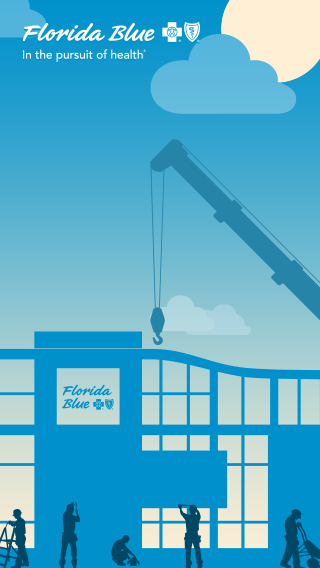
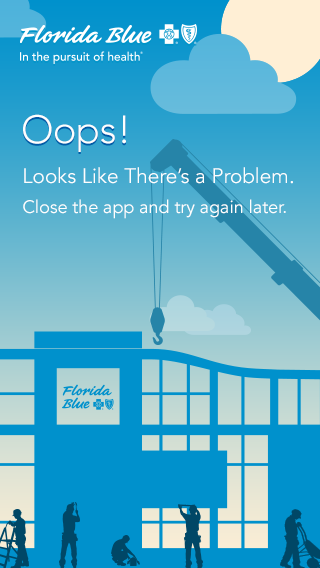
local changes

diff --git a/FloridaBlue/App/Containers/DrawerContent/SettingsContent.js b/FloridaBlue/App/Containers/DrawerContent/SettingsContent.js
@@ -7,6 +7,7 @@ import { ScrollView,
   StyleSheet,
   Text,
   Dimensions,
+  WebView,
   TouchableWithoutFeedback,
   TouchableOpacity
 } from 'react-native'
@@ -26,19 +27,6 @@ const Divider = () => {
   return <View style={styles.divider} />
 }
 
-const Dummy = [{
-  title :"A"
-},
-{
-  title :"B"
-},
-{
-  title :"C"
-}
-
-
-
-]
 class SettingsContent extends Component {
   constructor(){
     super();
@@ -77,7 +65,7 @@ class SettingsContent extends Component {
   }
   handlePressClaims = () => {
     this.toggleDrawer()
-    NavigationActions.claims()
+      NavigationActions.MyView({responseURL: 'https://mws8-stga.bcbsfl.com/wps/myportal/mbs/mwe/myBenefits/claims/'})
   }
 
   handlePressResources = () => {
@@ -99,27 +87,19 @@ class SettingsContent extends Component {
   }
   handlePressFindCare= () => {
     this.toggleDrawer()
-    NavigationActions.MyView()
+    NavigationActions.MyView({responseURL: 'https://mwe-stga.bcbsfl.com/wps/myportal/mbs/mwe/tools/findadoctor'})
   }
   handlePressPayment= () => {
     this.toggleDrawer()
     NavigationActions.MyView()
   }
-  handlePressMyAccount= () => {
+  handlePressSupport= () => {
     this.toggleDrawer()
-    NavigationActions.Support()
-  }
-  handlePressSettings= () => {
-    this.toggleDrawer()
-    NavigationActions.Support()
-  }
-  handlePressFAQ= () => {
-    this.toggleDrawer()
-    NavigationActions.Support()
+    NavigationActions.SupportScreen()
   }
   handlePressPolicy= () => {
     this.toggleDrawer()
-    NavigationActions.Support()
+   NavigationActions.MyView({responseURL: 'https://www.floridablue.com/terms-of-use'})
   }
 
   handlePressLogout = () => {
@@ -205,18 +185,12 @@ class SettingsContent extends Component {
 
         </View>
         <View style={styles.settings}>
-          <View style={styles.myAccountStyle}>
-            <View >
-              <Flb name='user' size={Metrics.icons.xm} color={Colors.flBlue.ocean} />
-            </View>
-            <Text style={styles.heading2} onPress={this.handlePressMyAccount}>My Account</Text>
-          </View>
 
           <View style={styles.myAccountStyle}>
             <View >
               <Flb name='cog-gear' size={Metrics.icons.xm} color={Colors.flBlue.ocean} />
             </View>
-            <Text style={styles.heading2} onPress={this.handlePressSettings}>App Settings</Text>
+            <Text style={styles.heading2} onPress={this.handlePressSupport}>Support</Text>
           </View>
 
           <View style={styles.myAccountStyle}>
@@ -224,9 +198,9 @@ class SettingsContent extends Component {
               <Flb name='generic-doc' size={Metrics.icons.xm  } color={Colors.flBlue.ocean} />
             </View>
 
-            <Text style={styles.heading2} onPress={this.handlePressPolicy}>Policies & Terms </Text>
+            <Text style={styles.heading2} onPress={this.handlePressPolicy}>Terms of Use </Text>
           </View>
-        
+
 
 
         </View>

diff --git a/FloridaBlue/App/Containers/Login/Login.js b/FloridaBlue/App/Containers/Login/Login.js
@@ -88,7 +88,7 @@ componentWillReceiveProps(newProps) {
   console.log('I am receving new props' + newProps.responseURL)
   console.log('I am receving new smToken' + newProps.smToken)
   var responseURL = newProps.responseURL;
-  
+
   if (this.isAttempting && !newProps.fetching && newProps.error === null) {
     // login path
     if (responseURL== 'login') {
@@ -103,7 +103,7 @@ componentWillReceiveProps(newProps) {
           NavigationActions.ErrorPage()
         }
       }
-    // redirect path   
+    // redirect path
     } else if (responseURL.includes("updateSecurityHintsAnswers")) {
                 NavigationActions.screen_4();
     } else if (responseURL.includes('mob/error/accessdenied')) {
@@ -179,7 +179,7 @@ componentWillReceiveProps(newProps) {
           <Icon name='chevron-right' size={12} color='black' />
           <TouchableOpacity onPress={() => NavigationActions.MyView({responseURL: 'https://www.floridablue.com/general/contact-us'})}>
             <Text style={styles.popupchildText}>
-              Contact us
+              Support
             </Text>
           </TouchableOpacity>
         </View>
@@ -201,13 +201,6 @@ componentWillReceiveProps(newProps) {
             </Text>
           </TouchableOpacity>
         </View>
-
-
-
-
-
-
-
       </View>
     )
   }

diff --git a/FloridaBlue/App/Containers/WebView/ErrorScreen.js b/FloridaBlue/App/Containers/WebView/ErrorScreen.js
@@ -16,6 +16,7 @@ import NavItems from '../../Navigation/NavItems.js'
 import {Colors, Metrics, Fonts, Images} from '../../Themes'
 import {connect} from 'react-redux'
 import {Actions as NavigationActions} from 'react-native-router-flux'
+import Flb from '../../Themes/FlbIcon'
 const window = Dimensions.get('window')
 
 
@@ -42,14 +43,9 @@ class ErrorScreen extends Component {
     return (
 
       <Image style={styles.headerContainerError} source={Images.errorPage}>
-      <View style={{marginTop:Metrics.screenHeight*0.15}}>
-        <Text style={{fontSize:Fonts.size.h4,
-          color:Colors.snow,
-          textAlign:'center',
-          fontFamily:Fonts.type.headerFont,
-          backgroundColor:Colors.transparent}}>
-          We are Sorry, Please login after some time!!!
-          </Text>
+      <View style={{alignItems:'center',marginTop:Metrics.screenHeight*0.4}}>
+
+          
           </View>
           </Image>
 

diff --git a/FloridaBlue/App/Navigation/NavItems.js b/FloridaBlue/App/Navigation/NavItems.js
@@ -29,6 +29,17 @@ export default {
       </TouchableOpacity>
     )
   },
+  errorBackButton () {
+    return (
+      <TouchableOpacity  style={{width:100,height:100,alignItems:'center'}} onPress={NavigationActions.pop}>
+        <Flb name='arrow-left'
+          size={Metrics.icons.large * Metrics.screenHeight*0.0013}
+          color={Colors.snow}
+          style={[styles.backButton, {marginTop: Metrics.mediumMargin * Metrics.screenHeight * 0.0020}]}
+        />
+      </TouchableOpacity>
+    )
+  },
 /*
   hamburgerButton () {
     return (
